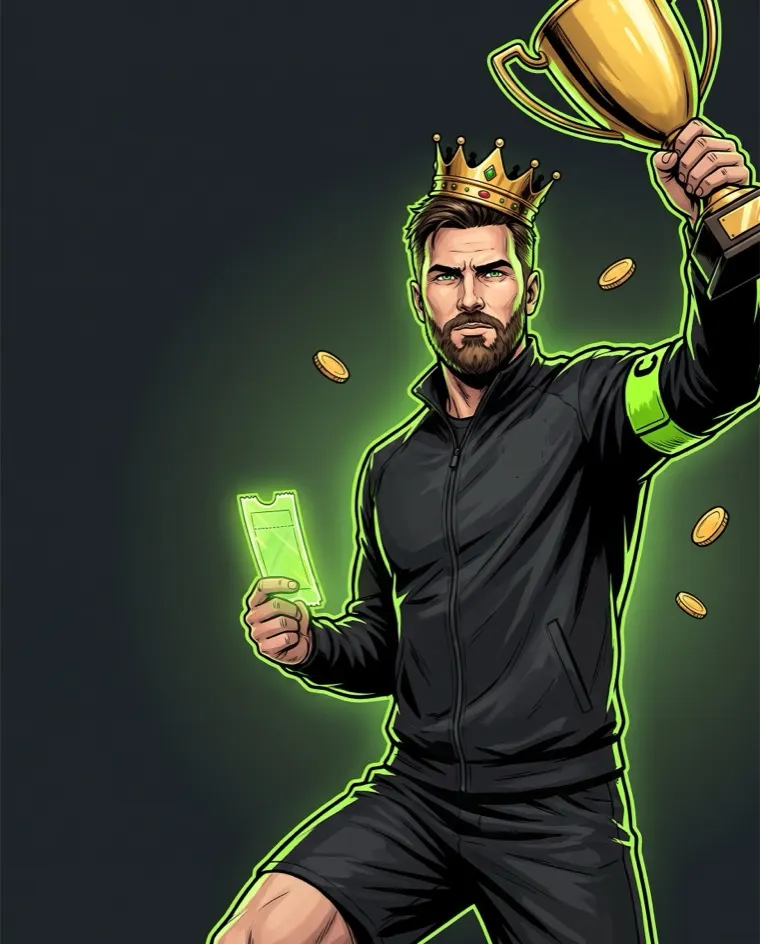
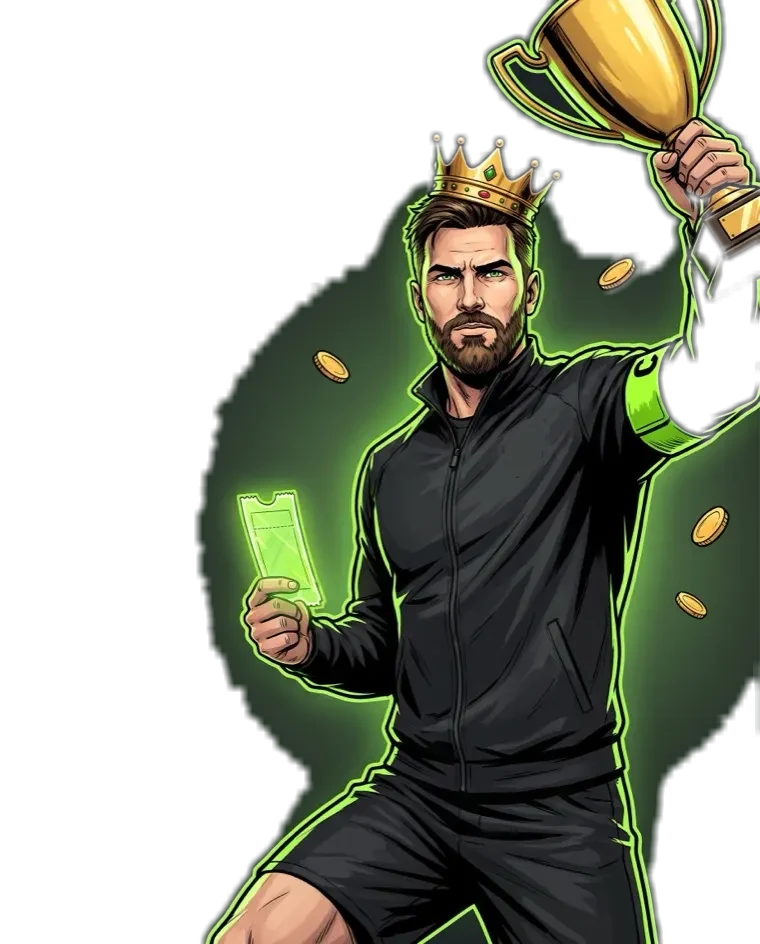
fix: cut the studio background out of the character art
Both illustrations shipped with a fully opaque near-black background, so each
one drew a rectangle on the surface it sat on. A radial CSS mask had been
hiding it, but that mask cannot reach the box edges: its ellipse is only about
65% of the way to the left and right sides, leaving those edges around 40%
opaque. On a dark display the seam showed, on phones it showed plainly.

The background is now keyed out of the assets themselves. A flood fill enters
from the frame and travels only through pixels within 10 of the measured
studio black and nearly grey, so it clears the floor without reaching the
jacket, which is the same colour but enclosed by the rim light. The alpha edge
is feathered. Both CSS masks are gone; a soft pool behind each figure blends
the painted glow's dark falloff into the surface.

Mobile layout, where the art looked worst:

- The hero illustration left the flow and sits in the top-right corner, so it
  no longer spends 190px above the headline. The CTA now lands above the fold.
  Its width tracks the viewport, and a linear fade dissolves the bottom rather
  than chopping the torso.
- The prize banner goes two-column at 720px instead of 820px, matching the
  hero, so tablets stop showing a centred figure under a half-empty row.
- "How it works" lays out on auto-fit tracks, ending the three cramped columns
  between 421 and 620px.
- The mock site nav scrolls sideways instead of widening the page by 2px at
  360px.
[…]

diff --git a/index.html b/index.html
@@ -76,10 +76,13 @@ svg.i{width:1em;height:1em;flex:none;fill:none;stroke:currentColor;stroke-width:
 /* --------------------------------------------------------------- site mock */
 .site-head{position:sticky;top:0;z-index:20;background:rgba(14,15,12,.88);backdrop-filter:blur(10px);border-bottom:1px solid var(--line)}
 .site-head .row{max-width:var(--shell);margin:0 auto;padding:10px 20px;display:flex;align-items:center;gap:18px}
-.wordmark{font-family:var(--font-display);font-weight:800;font-size:22px;letter-spacing:.06em;text-transform:uppercase;color:var(--ink);display:flex;align-items:center;gap:8px;min-height:44px}
+.wordmark{font-family:var(--font-display);font-weight:800;font-size:22px;letter-spacing:.06em;text-transform:uppercase;color:var(--ink);display:flex;align-items:center;gap:8px;min-height:44px;flex:none}
 .wordmark i{width:10px;height:10px;background:var(--accent);border-radius:2px;transform:rotate(45deg)}
-.site-nav{display:flex;gap:4px;margin-left:auto}
-.site-nav button{font-size:13px;color:var(--ink-2);font-weight:500;min-height:44px;padding:0 8px;border-bottom:2px solid transparent}
+/* The mock chrome scrolls sideways on narrow phones the way the real site's
+   does, rather than widening the page by a couple of pixels. */
+.site-nav{display:flex;gap:4px;margin-left:auto;min-width:0;overflow-x:auto;scrollbar-width:none}
+.site-nav::-webkit-scrollbar{display:none}
+.site-nav button{flex:none;font-size:13px;color:var(--ink-2);font-weight:500;min-height:44px;padding:0 8px;border-bottom:2px solid transparent}
 .site-nav button.on{color:var(--ink);border-bottom-color:var(--accent)}
 
 /* The play flow stays a single focused column; browse and scan screens open up. */
@@ -150,10 +153,18 @@ body[data-layout="wide"]{--shell:1120px}
 .dot{width:10px;height:10px;border-radius:50%;flex:none;display:inline-block}
 
 /* ------------------------------------------------------------- landing */
-.hero{position:relative;overflow:hidden;padding:24px 20px;border-radius:16px;background:linear-gradient(150deg,#1d2418 0%,#171915 55%,#131b26 100%);border:1px solid var(--line-strong);box-shadow:var(--shadow);display:flex;flex-direction:column;gap:18px}
+.hero{--art-w:clamp(148px,34vw,250px);position:relative;overflow:hidden;padding:24px 20px;border-radius:16px;background:linear-gradient(150deg,#1d2418 0%,#171915 55%,#131b26 100%);border:1px solid var(--line-strong);box-shadow:var(--shadow);display:flex;flex-direction:column;gap:18px}
 .hero-copy{position:relative;z-index:1;min-width:0}
-.hero-art{position:relative;z-index:1;order:-1;align-self:flex-end;width:180px;aspect-ratio:1/1;margin:-12px -12px -8px 0}
-.hero-photo{display:block;width:100%;height:100%;object-fit:cover;object-position:50% 38%;filter:brightness(1.09) saturate(1.04);-webkit-mask-image:radial-gradient(80% 78% at 52% 48%,#000 42%,rgba(0,0,0,.5) 72%,transparent 98%);mask-image:radial-gradient(80% 78% at 52% 48%,#000 42%,rgba(0,0,0,.5) 72%,transparent 98%)}
+/* On phones the art sits out of flow in the corner: stacked above the copy it
+   cost 190px before the headline and pushed the CTA under the fold. */
+.hero>.hero-art{position:absolute;top:10px;right:-14px;z-index:0;width:var(--art-w);aspect-ratio:760/944;pointer-events:none;-webkit-mask-image:linear-gradient(to bottom,#000 58%,transparent 94%);mask-image:linear-gradient(to bottom,#000 58%,transparent 94%)}
+.hero-photo{display:block;width:100%;height:100%;object-fit:contain;object-position:top center;filter:brightness(1.09) saturate(1.04)}
+.hero-copy>.row{padding-right:calc(var(--art-w) - 22px)}
+/* Both illustrations keep the glow they were painted with, and its outer
+   falloff is dark. This pool sits under the art so that falloff reads as one
+   shadow with the surface rather than as an edge around the figure. */
+.hero-art,.prize-banner .pb-art{isolation:isolate}
+.hero-art:before,.prize-banner .pb-art:before{content:"";position:absolute;inset:-14% -18%;z-index:-1;border-radius:50%;background:radial-gradient(closest-side,rgba(6,10,7,.55),rgba(6,10,7,.26) 58%,transparent 76%);pointer-events:none}
 .hero:before{content:"";position:absolute;inset:-50% -20% auto auto;width:320px;height:320px;border-radius:50%;background:radial-gradient(closest-side,rgba(215,255,61,.18),transparent 70%);pointer-events:none}
 .hero:after{content:"";position:absolute;inset:auto auto -60% -20%;width:280px;height:280px;border-radius:50%;background:radial-gradient(closest-side,rgba(57,135,229,.16),transparent 70%);pointer-events:none}
 .hero>*{position:relative}
@@ -178,7 +189,7 @@ body[data-layout="wide"]{--shell:1120px}
   .sheet-table .st-scroll td:first-child,.sheet-table .st-scroll th:first-child{padding-left:10px;width:48px}
   .sheet-table .st-scroll td:last-child,.sheet-table .st-scroll th:last-child{padding-right:10px}
 }
-.steps3{display:grid;grid-template-columns:repeat(3,1fr);gap:8px;margin:22px 0}
+.steps3{display:grid;grid-template-columns:repeat(auto-fit,minmax(200px,1fr));gap:8px;margin:22px 0}
 .steps3 div{padding:14px 12px;border-radius:var(--radius-sm);background:var(--surface);border:1px solid var(--line)}
 .steps3 .n{display:grid;place-items:center;width:26px;height:26px;border-radius:50%;background:var(--accent);color:var(--accent-ink);font-family:var(--font-display);font-weight:800;font-size:15px}
 .steps3 b{display:block;font-family:var(--font-display);font-size:19px;font-weight:700;margin-top:10px;line-height:1.05}
@@ -194,12 +205,13 @@ body[data-layout="wide"]{--shell:1120px}
 .terms details p{font-size:14px;color:var(--ink-2);padding:0 0 14px;line-height:1.55;max-width:62ch}
 @media (max-width:420px){
   .hero h1{font-size:38px}
-  .steps3{grid-template-columns:1fr}
 }
 @media (min-width:720px){
   .hero{flex-direction:row;align-items:center;gap:28px;padding:30px 28px}
   .hero-copy{flex:1;min-width:0}
-  .hero-art{order:0;width:min(400px,38%);align-self:flex-end;margin:0 -18px -30px 0}
+  .hero>.hero-art{position:relative;top:auto;right:auto;order:0;width:min(400px,38%);aspect-ratio:1/1;align-self:flex-end;margin:0 -18px -30px 0;-webkit-mask-image:none;mask-image:none}
+  .hero-photo{object-fit:cover;object-position:50% 38%}
+  .hero-copy>.row{padding-right:0}
 }
 
 /* ---------------------------------------------------------------- hub */
@@ -527,9 +539,9 @@ body[data-layout="wide"]{--shell:1120px}
 .prize-banner .pb-status.on{color:var(--accent)}
 .prize-banner .pb-terms{margin-top:14px;font-size:11px;color:var(--ink-3);line-height:1.5;max-width:86ch}
 .prize-banner .pb-art{position:relative;z-index:1;justify-self:center;width:min(230px,72%);aspect-ratio:760/944;margin:-6px 0 -30px}
-.pb-photo{display:block;width:100%;height:100%;object-fit:contain;object-position:bottom center;filter:brightness(.94) saturate(1.06);-webkit-mask-image:radial-gradient(80% 78% at 52% 48%,#000 42%,rgba(0,0,0,.5) 72%,transparent 98%);mask-image:radial-gradient(80% 78% at 52% 48%,#000 42%,rgba(0,0,0,.5) 72%,transparent 98%)}
-@media (min-width:820px){
-  .prize-banner{grid-template-columns:minmax(0,1fr) minmax(280px,360px);align-items:center;padding:26px 14px 26px 30px;gap:18px}
+.pb-photo{display:block;width:100%;height:100%;object-fit:contain;object-position:bottom center;filter:brightness(.94) saturate(1.06)}
+@media (min-width:720px){
+  .prize-banner{grid-template-columns:minmax(0,1fr) minmax(260px,360px);align-items:center;padding:26px 14px 26px 30px;gap:18px}
   .prize-banner h2{font-size:42px}
   .prize-banner .pb-art{justify-self:end;width:100%;margin:0 0 -30px}
 }

diff --git a/sw.js b/sw.js
@@ -1,7 +1,7 @@
 /* The prototype is a single page plus two illustrations, so the whole thing fits in a
    cache. Navigations go to the network first, so a deploy is picked up immediately, and
    fall back to the cached shell when there is none. */
-const CACHE = 'match-iq-v1';
+const CACHE = 'match-iq-v2';
 const SHELL = ['./', './index.html', './manifest.webmanifest', './art/captain-ai.webp', './art/captain-king.webp', './art/icon-192.png', './art/icon-512.png'];
 
 self.addEventListener('install', (e) => {
